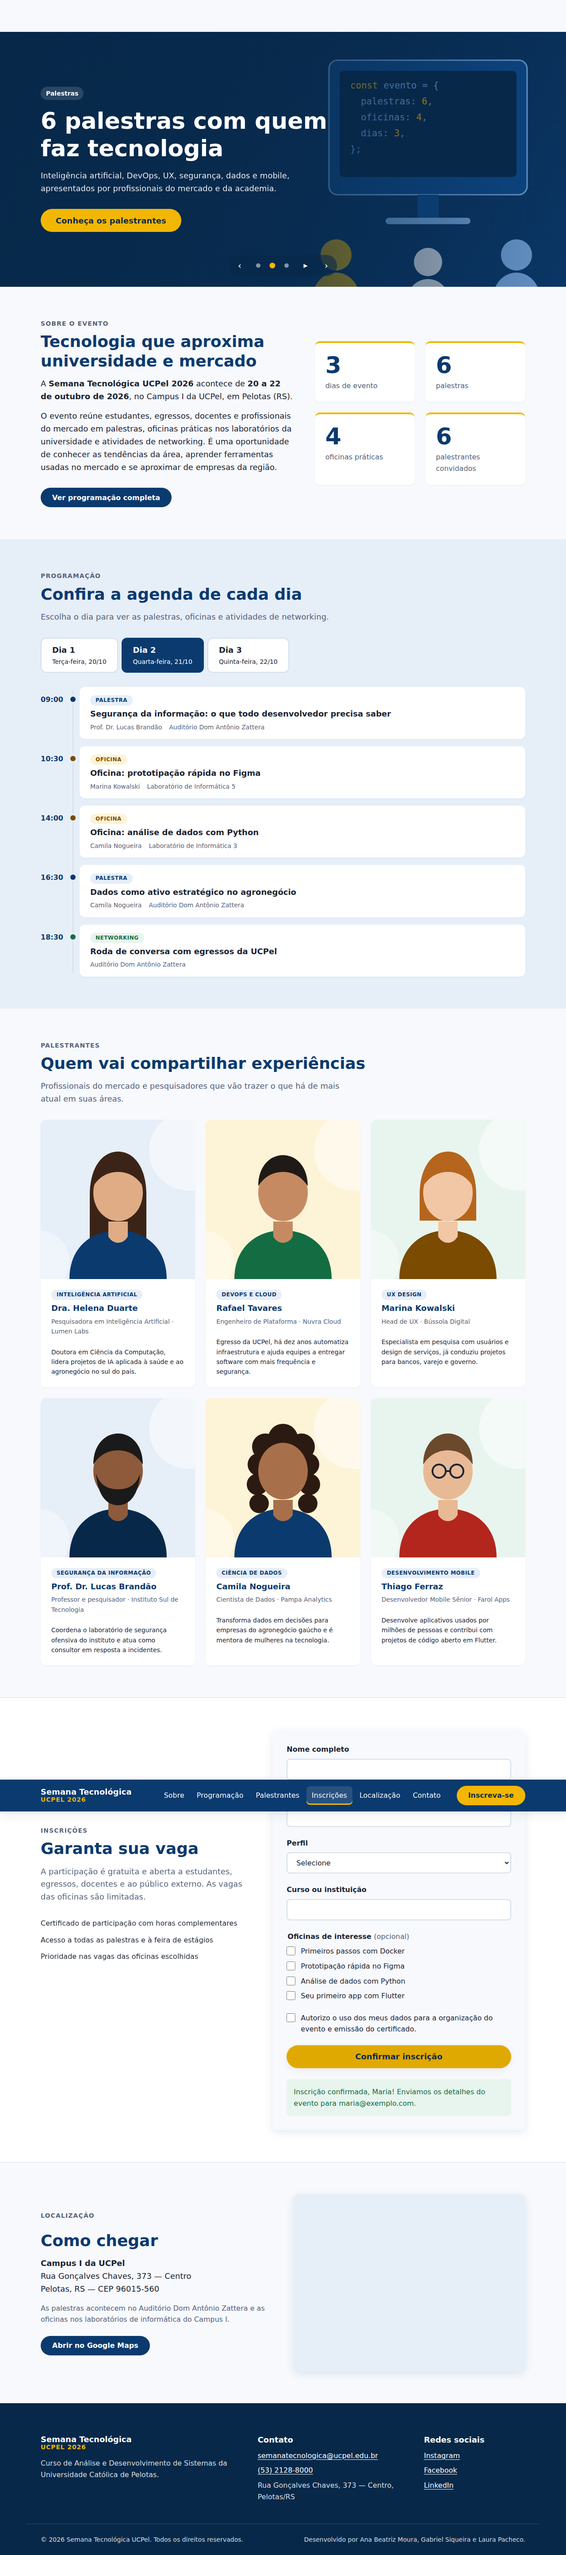
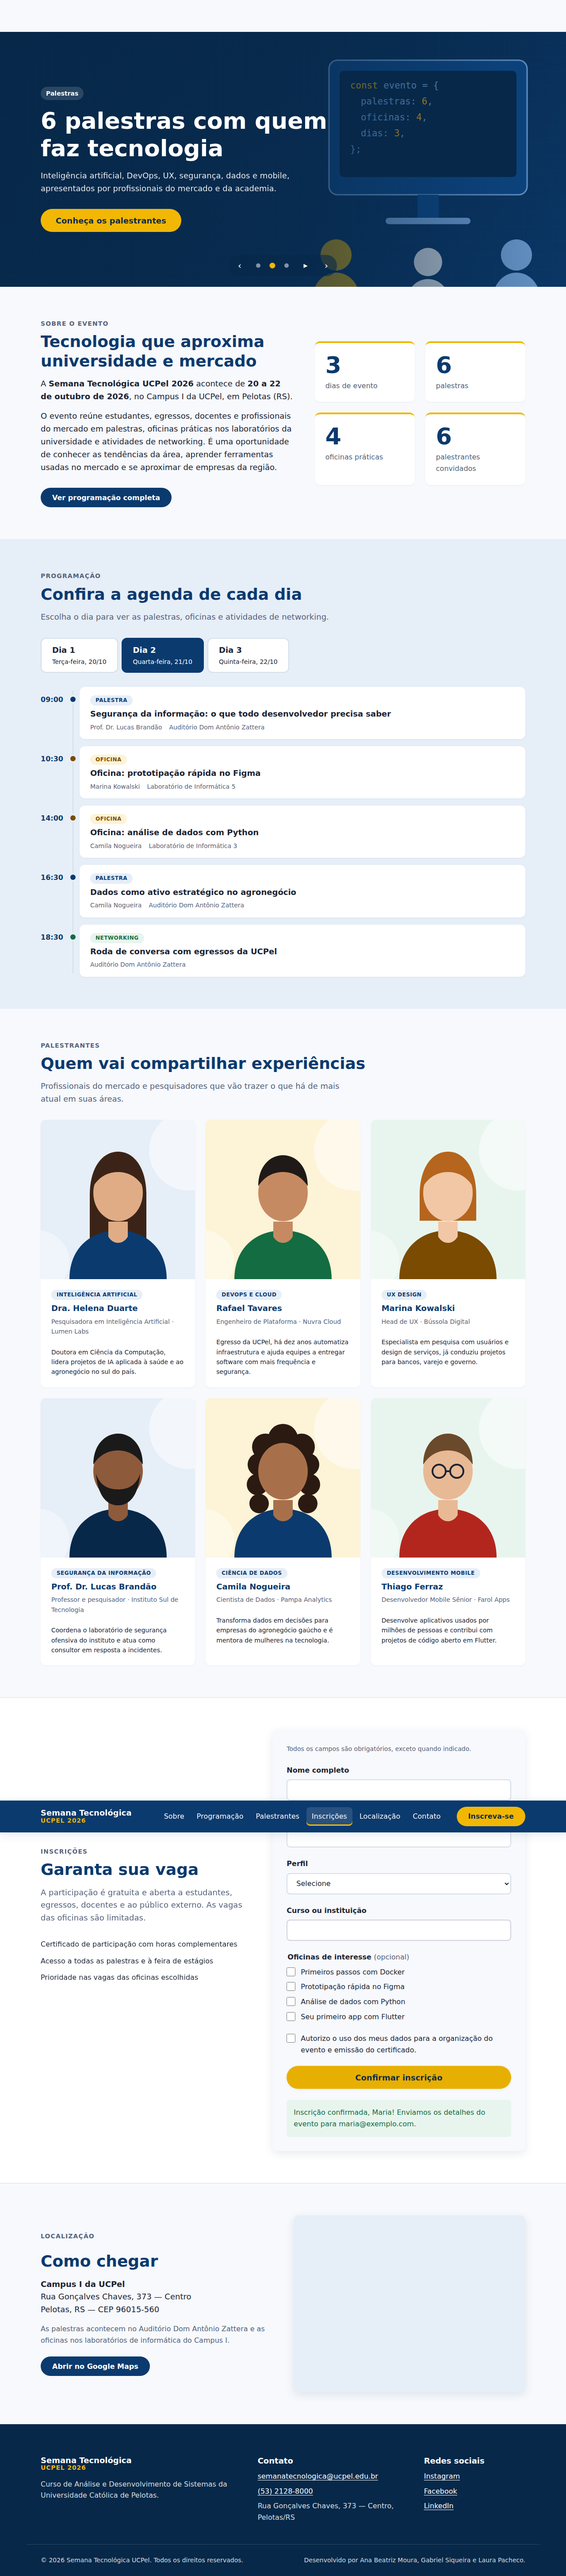
fix(a11y): apply WCAG 2.2 checklist and best practices

diff --git a/index.html b/index.html
@@ -32,9 +32,11 @@
   <script type="module" src="assets/js/main.js"></script>
 </head>
 <body>
+  <a class="skip-link" href="#main-content">Pular para o conteúdo</a>
+
   <header class="site-header">
     <div class="container site-header__inner">
-      <a class="brand" href="#home">
+      <a class="brand" href="#home" aria-label="Semana Tecnológica UCPel 2026, voltar ao início">
         <span class="brand__title">Semana Tecnológica</span>
         <span class="brand__subtitle">UCPel 2026</span>
       </a>
@@ -60,12 +62,12 @@
     </div>
   </header>
 
-  <main id="main-content">
+  <main id="main-content" tabindex="-1">
     <!-- Hero / slideshow -->
     <section class="hero" id="home" aria-label="Destaques do evento">
-      <div class="slideshow">
-        <ul class="slideshow__track">
-          <li class="slide is-active">
+      <div class="slideshow" role="region" aria-roledescription="carrossel" aria-label="Destaques da Semana Tecnológica">
+        <div class="slideshow__track" aria-live="off">
+          <div class="slide is-active" role="group" aria-roledescription="slide" aria-label="1 de 3">
             <img class="slide__image" src="assets/img/slides/slide-1.svg" alt="Ilustração de um chip com o número 26 cercado por circuitos, representando a edição 2026 do evento" width="1600" height="900" loading="eager">
             <div class="container slide__content">
               <p class="slide__eyebrow">20 a 22 de outubro de 2026 · Campus I · Pelotas</p>
@@ -73,8 +75,8 @@
               <p class="slide__text">Três dias de palestras, oficinas práticas e networking com quem constrói a tecnologia no Brasil.</p>
               <a class="btn btn--cta btn--lg" href="#registration">Inscreva-se gratuitamente</a>
             </div>
-          </li>
-          <li class="slide">
+          </div>
+          <div class="slide" role="group" aria-roledescription="slide" aria-label="2 de 3">
             <img class="slide__image" src="assets/img/slides/slide-2.svg" alt="Ilustração de um monitor exibindo código diante de uma plateia" width="1600" height="900" loading="lazy">
             <div class="container slide__content">
               <p class="slide__eyebrow">Palestras</p>
@@ -82,8 +84,8 @@
               <p class="slide__text">Inteligência artificial, DevOps, UX, segurança, dados e mobile, apresentados por profissionais do mercado e da academia.</p>
               <a class="btn btn--cta btn--lg" href="#speakers">Conheça os palestrantes</a>
             </div>
-          </li>
-          <li class="slide">
+          </div>
+          <div class="slide" role="group" aria-roledescription="slide" aria-label="3 de 3">
             <img class="slide__image" src="assets/img/slides/slide-3.svg" alt="Ilustração de uma rede de pessoas conectadas, representando o networking" width="1600" height="900" loading="lazy">
             <div class="container slide__content">
               <p class="slide__eyebrow">Oficinas e networking</p>
@@ -91,15 +93,15 @@
               <p class="slide__text">Oficinas nos laboratórios da UCPel, feira de estágios e roda de conversa com egressos.</p>
               <a class="btn btn--cta btn--lg" href="#schedule">Ver programação</a>
             </div>
-          </li>
-        </ul>
+          </div>
+        </div>
 
         <div class="slideshow__controls">
           <button class="slideshow__button" type="button" data-slide-prev>
             <span aria-hidden="true">&#8249;</span>
             <span class="visually-hidden">Slide anterior</span>
           </button>
-          <div class="slideshow__dots"></div>
+          <div class="slideshow__dots" role="group" aria-label="Escolher slide"></div>
           <button class="slideshow__button" type="button" data-slide-pause>
             <span aria-hidden="true" data-pause-icon>&#10074;&#10074;</span>
             <span class="visually-hidden" data-pause-label>Pausar apresentação</span>
@@ -170,7 +172,8 @@
           </ul>
         </div>
 
-        <form class="form" id="registration-form" novalidate>
+        <form class="form" id="registration-form" novalidate aria-describedby="form-required-note">
+          <p class="form__note" id="form-required-note">Todos os campos são obrigatórios, exceto quando indicado.</p>
           <div class="form-field">
             <label class="form-field__label" for="name">Nome completo</label>
             <input class="form-field__input" type="text" id="name" name="name" autocomplete="name" required>
@@ -215,7 +218,7 @@
           </div>
 
           <button class="btn btn--cta btn--lg btn--block" type="submit">Confirmar inscrição</button>
-          <div class="form__status" data-form-status></div>
+          <div class="form__status" role="status" aria-live="polite" data-form-status></div>
         </form>
       </div>
     </section>

diff --git a/assets/js/slideshow.js b/assets/js/slideshow.js
@@ -2,6 +2,7 @@
  * Hero slideshow — autoplay, previous/next, dots and pause control.
  */
 const AUTOPLAY_DELAY = 6000;
+const prefersReducedMotion = window.matchMedia('(prefers-reduced-motion: reduce)');
 
 export function initSlideshow(root = document.querySelector('.slideshow')) {
   if (!root) return;
@@ -13,6 +14,7 @@ export function initSlideshow(root = document.querySelector('.slideshow')) {
   const pauseButton = root.querySelector('[data-slide-pause]');
   const pauseIcon = root.querySelector('[data-pause-icon]');
   const pauseLabel = root.querySelector('[data-pause-label]');
+  const track = root.querySelector('.slideshow__track');
 
   let current = Math.max(0, slides.findIndex((slide) => slide.classList.contains('is-active')));
   let timer = null;
@@ -37,6 +39,7 @@ export function initSlideshow(root = document.querySelector('.slideshow')) {
       const isActive = slideIndex === current;
       slide.classList.toggle('is-active', isActive);
       slide.setAttribute('aria-hidden', String(!isActive));
+      slide.inert = !isActive;
     });
     dots.forEach((dot, dotIndex) => {
       dot.setAttribute('aria-current', String(dotIndex === current));
@@ -62,6 +65,8 @@ export function initSlideshow(root = document.querySelector('.slideshow')) {
     isPaused = paused;
     pauseIcon.innerHTML = paused ? '&#9654;' : '&#10074;&#10074;';
     pauseLabel.textContent = paused ? 'Retomar apresentação' : 'Pausar apresentação';
+    // Announce slide changes only when they are triggered by the visitor
+    track.setAttribute('aria-live', paused ? 'polite' : 'off');
     if (paused) {
       stop();
     } else {
@@ -90,5 +95,11 @@ export function initSlideshow(root = document.querySelector('.slideshow')) {
   });
 
   goTo(current);
-  start();
+
+  // Respect the visitor's reduced motion preference: no autoplay
+  if (prefersReducedMotion.matches) {
+    setPaused(true);
+  } else {
+    start();
+  }
 }

diff --git a/assets/css/base.css b/assets/css/base.css
@@ -56,6 +56,64 @@ strong {
   font-weight: 600;
 }
 
+/* Focus -------------------------------------------------------------------- */
+:focus {
+  outline: none;
+}
+
+:focus-visible {
+  outline: 3px solid var(--color-accent);
+  outline-offset: 3px;
+  border-radius: 4px;
+}
+
+.section--alt :focus-visible,
+.section--highlight :focus-visible,
+.stats :focus-visible,
+.tabs__panel:focus-visible,
+.form :focus-visible {
+  outline-color: var(--color-primary);
+}
+
+main:focus {
+  outline: none;
+}
+
+/* Skip link ---------------------------------------------------------------- */
+.skip-link {
+  position: absolute;
+  top: var(--space-2);
+  left: var(--space-2);
+  z-index: 1000;
+  padding: var(--space-3) var(--space-5);
+  border-radius: var(--radius-sm);
+  background-color: var(--color-accent);
+  color: var(--color-on-accent);
+  font-weight: 600;
+  text-decoration: none;
+  transform: translateY(-200%);
+  transition: transform var(--transition);
+}
+
+.skip-link:focus {
+  transform: translateY(0);
+}
+
+/* Reduced motion ------------------------------------------------------------ */
+@media (prefers-reduced-motion: reduce) {
+  html {
+    scroll-behavior: auto;
+  }
+
+  *,
+  *::before,
+  *::after {
+    animation-duration: 0.01ms !important;
+    animation-iteration-count: 1 !important;
+    transition-duration: 0.01ms !important;
+  }
+}
+
 /* Utilities */
 .container {
   width: 100%;

diff --git a/assets/js/schedule.js b/assets/js/schedule.js
@@ -19,8 +19,26 @@ export function initSchedule(root = document.querySelector('[data-schedule]')) {
     });
   }
 
-  tabs.forEach((tab) => {
+  tabs.forEach((tab, index) => {
     tab.addEventListener('click', () => selectTab(tab));
+
+    // Keyboard support as recommended by the WAI-ARIA tabs pattern
+    tab.addEventListener('keydown', (keyEvent) => {
+      const keyMap = {
+        ArrowRight: index + 1,
+        ArrowDown: index + 1,
+        ArrowLeft: index - 1,
+        ArrowUp: index - 1,
+        Home: 0,
+        End: tabs.length - 1,
+      };
+      if (!(keyEvent.key in keyMap)) return;
+
+      keyEvent.preventDefault();
+      const nextTab = tabs[(keyMap[keyEvent.key] + tabs.length) % tabs.length];
+      selectTab(nextTab);
+      nextTab.focus();
+    });
   });
 
   return { tabs, selectTab };

diff --git a/assets/css/components.css b/assets/css/components.css
@@ -458,6 +458,11 @@
   box-shadow: var(--shadow);
 }
 
+.form__note {
+  font-size: var(--text-sm);
+  color: var(--color-muted);
+}
+
 .form-field {
   display: grid;
   gap: var(--space-2);
